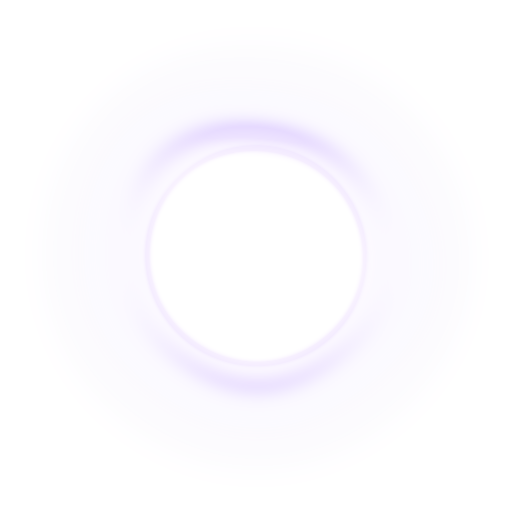
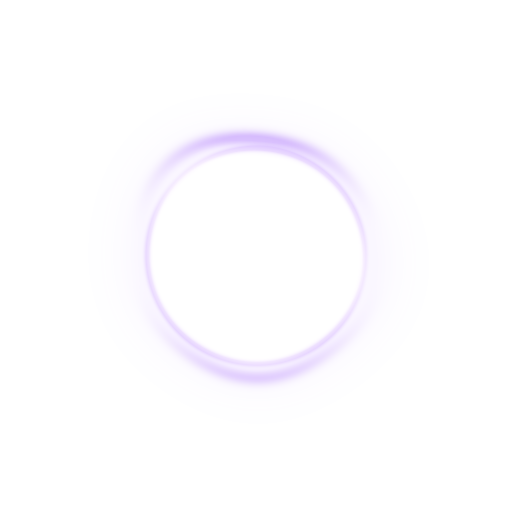
Roblox VFX round 4: the frag's grey smoke stage, black hole v2, a lower smoke cloud, the flash's own colours (place version 454)
Critic round 3 (flash 7, frag 3, smoke 6, black hole 6) fixes: the fireball hands over to opaque lumpy grey puffs with
orange hot pockets inside and real feathers; the black hole's disk crisper, brighter, more tilted and spinning, a
tighter halo with arcs, more and longer infall streaks; the smoke bomb low and wide; the flash less additive; skin
particles in first person ride with the gun. Photos in roblox/docs/vfx/round4/.

Changed region(s): [[0.375, 0.2188, 0.625, 0.3125], [0.4375, 0.7188, 0.5625, 0.75]]

diff --git a/tools/roblox/vfx/bh_sheets.py b/tools/roblox/vfx/bh_sheets.py
@@ -42,7 +42,7 @@ def save(name, rgb, a):
 RIN, ROUT = 0.38, 0.97
 u = np.clip((r - RIN) / (ROUT - RIN), 0, 1)                 # 0 at the inner edge .. 1 at the rim
 prof = (RIN / np.maximum(r, RIN)) ** 2.4                    # bright near the middle, falling off outward
-edge_in = smooth(RIN - 0.012, RIN + 0.018, r)               # a crisp but smooth inner edge
+edge_in = smooth(RIN - 0.006, RIN + 0.01, r)                # a crisp inner edge (round 3: it read soft)
 edge_out = 1 - smooth(ROUT - 0.32, ROUT, r)                 # a long soft fade at the rim
 # spiral streaks: bands wound along a log spiral (the gas sheared as it circles), several scales, random phases
 wind = th + 2.2 * np.log(np.maximum(r, 1e-3))
@@ -51,9 +51,10 @@ for k, amp in [(5, 0.35), (9, 0.25), (17, 0.18), (31, 0.12), (47, 0.08)]:
     st += amp * np.sin(k * wind + rng.uniform(0, 2 * np.pi)) * np.sin(max(1, k // 2) * th + rng.uniform(0, 2 * np.pi))
 streak = np.clip(0.78 + st, 0.25, 1.4)
 # a hot ring right at the inner edge (the brightest thing in the effect)
-hot = np.exp(-((r - (RIN + 0.03)) / 0.025) ** 2)
-a_disk = np.clip((prof * streak * 0.95 + hot * 0.9) * edge_in * edge_out, 0, 1)
-col_disk = ramp([(0.0, (255, 250, 255)), (0.12, (238, 222, 255)), (0.4, (190, 160, 245)), (1.0, (112, 78, 190))], u)
+hot = np.exp(-((r - (RIN + 0.022)) / 0.018) ** 2)
+a_disk = np.clip((prof * streak * 0.95 + hot * 1.2) * edge_in * edge_out, 0, 1)
+# (round 3: white-lilac read pale against a light wall: white-hot only at the inner edge, a clear violet outward)
+col_disk = ramp([(0.0, (255, 250, 255)), (0.08, (240, 224, 255)), (0.3, (192, 146, 255)), (1.0, (128, 68, 222))], u)
 save('vfx_bhdisk.png', col_disk, a_disk)
 
 # ---- the halo. the horizon's edge sits at 0.40 of the radius: the photon ring just outside it, slightly warped
@@ -63,12 +64,12 @@ rr = r / warp                                                # (the glow and arc
 rr0 = r / (1 + 0.006 * np.sin(2 * th + 0.7))
 ring = np.exp(-((rr0 - (RH + 0.022)) / 0.012) ** 2)         # the thin photon ring
 # the disk's far side, bent over the top and under the bottom: a thicker arc band whose strength follows |sin|
-arcs_w = np.abs(np.sin(th)) ** 2.5
-arcs = np.exp(-((rr - (RH + 0.1)) / 0.05) ** 2) * arcs_w
+arcs_w = np.abs(np.sin(th)) ** 3
+arcs = np.exp(-((rr - (RH + 0.075)) / 0.028) ** 2) * arcs_w   # (round 3: crisper, closer: the disk bent over the top)
 arcs *= 1 - 0.35 * (dy > 0)                                  # (the lower arc fainter: the disk is tilted)
 # the glow round it all, fading out to the sprite's edge
-glow = np.exp(-np.maximum(rr - RH, 0) / 0.16) * smooth(RH - 0.005, RH + 0.03, rr) * (1 - smooth(0.75, 0.98, r))
-a_halo = np.clip(ring * 1.0 + arcs * 1.0 + glow * 0.35, 0, 1) * (r < 0.995)
-col_halo = ramp([(0.0, (250, 244, 255)), (0.5, (214, 196, 255)), (1.0, (140, 104, 220))],
+glow = np.exp(-np.maximum(rr - RH, 0) / 0.07) * smooth(RH - 0.005, RH + 0.03, rr) * (1 - smooth(0.75, 0.98, r))  # (tight: ~1.2x)
+a_halo = np.clip(ring * 1.0 + arcs * 1.0 + glow * 0.3, 0, 1) * (r < 0.995)
+col_halo = ramp([(0.0, (252, 246, 255)), (0.12, (220, 196, 255)), (1.0, (150, 96, 232))],
                 np.clip((rr - RH) / 0.45, 0, 1))
 save('vfx_bhhalo.png', col_halo, a_halo)

diff --git a/tools/roblox/vfx/cotton_sheet.py b/tools/roblox/vfx/cotton_sheet.py
@@ -44,12 +44,12 @@ for i in range(N):
     for (ox, oy, s) in lumps:
         d2 = ((u - ox * R) ** 2 + (v - oy * R) ** 2) / (s * R) ** 2
         D += np.exp(-d2 * 0.75)
-    D += 0.3 * noise * np.clip(D, 0, 1)      # lumps on the surface
+    D += 0.38 * noise * np.clip(D, 0, 1)     # lumps on the surface
     thin = 0.22 + 0.75 * np.clip((t - 0.5) / 0.5, 0, 1) ** 1.4   # the threshold rises: it thins out over the last half
-    a = np.clip((D - thin) / 0.75, 0, 1)
+    a = np.clip((D - thin) / 0.45, 0, 1)        # (round 3: a defined bumpy edge, not a long fringe)
     a = a * a * (3 - 2 * a)
     a *= 1 - np.clip((t - 0.8) / 0.2, 0, 1) ** 1.5   # gone by the last frame
-    a *= np.clip((0.98 - r) / 0.2, 0, 1)       # zero at the cell's border, softly
+    a *= np.clip((0.98 - r) / 0.1, 0, 1)       # zero at the cell's border
     # light from above and a little left: the density's slope as a normal
     gy, gx = np.gradient(D)
     nz = 0.35

diff --git a/roblox/docs/VFX-PIPELINE.md b/roblox/docs/VFX-PIPELINE.md
@@ -237,3 +237,20 @@ sights). Seen and fixed in the same turn: the hole's light washed the room viole
 
 **Cost guard** (Seraph AR, full auto 5 s, Studio at 60 fps): idle 16.67 ms avg / 17.62 p95, firing 16.67 / 17.85.
 
+
+### Round 4: the frag's smoke stage, black hole v2 (16 Nov 2026, place version 454)
+
+**Critic round 3** (strips `roblox/docs/vfx/round3/`): first-person flash 7, frag 3, smoke bomb 6, duck black hole 6,
+Seraph skin in first person 8. Its fixes, all in 454 (photos `roblox/docs/vfx/round4/`):
+- Frag: the 0.5-1.2 s stage was a see-through maroon fog with no outline. Now the fireball (0.8 s) hands over at 0.3 s
+  to a cluster of 11 opaque lumpy grey puffs (the cotton sheet, a box 0.55 r wide centred 0.4 r up, so nothing cuts
+  into the floor) with 4 orange hot pockets glowing inside till about 1.1 s; small dark soot puffs from 0.65 s; the
+  feathers use the feather drawing (they read as white dots).
+- Black hole: the disk sprite crisper and more violet with a white-hot inner edge, twice as bright, tilted 20 degrees,
+  about half a turn a second; the halo tighter (about 1.2x) with crisp arcs over the top and bottom; the streaks from
+  5 m, 60 a second, twice as bright and stretched; the flakes stretch as they fall.
+- Smoke bomb: lower and wider (boxes at 1.5 and 2.2 m, puffs 2.9 -> 5.7 m drawn), crisper lumpier puffs, more of them.
+- Flash: LightEmission 0.45, Brightness 1.15 (the star's yellow body and orange tips show over a bright room); first
+  person 0.16 m ahead of the muzzle, its barrel flames 1.5x wider.
+- Skin particles in first person ride with the gun (LockedToPart): world-space ones were left floating when the view
+  turned.
